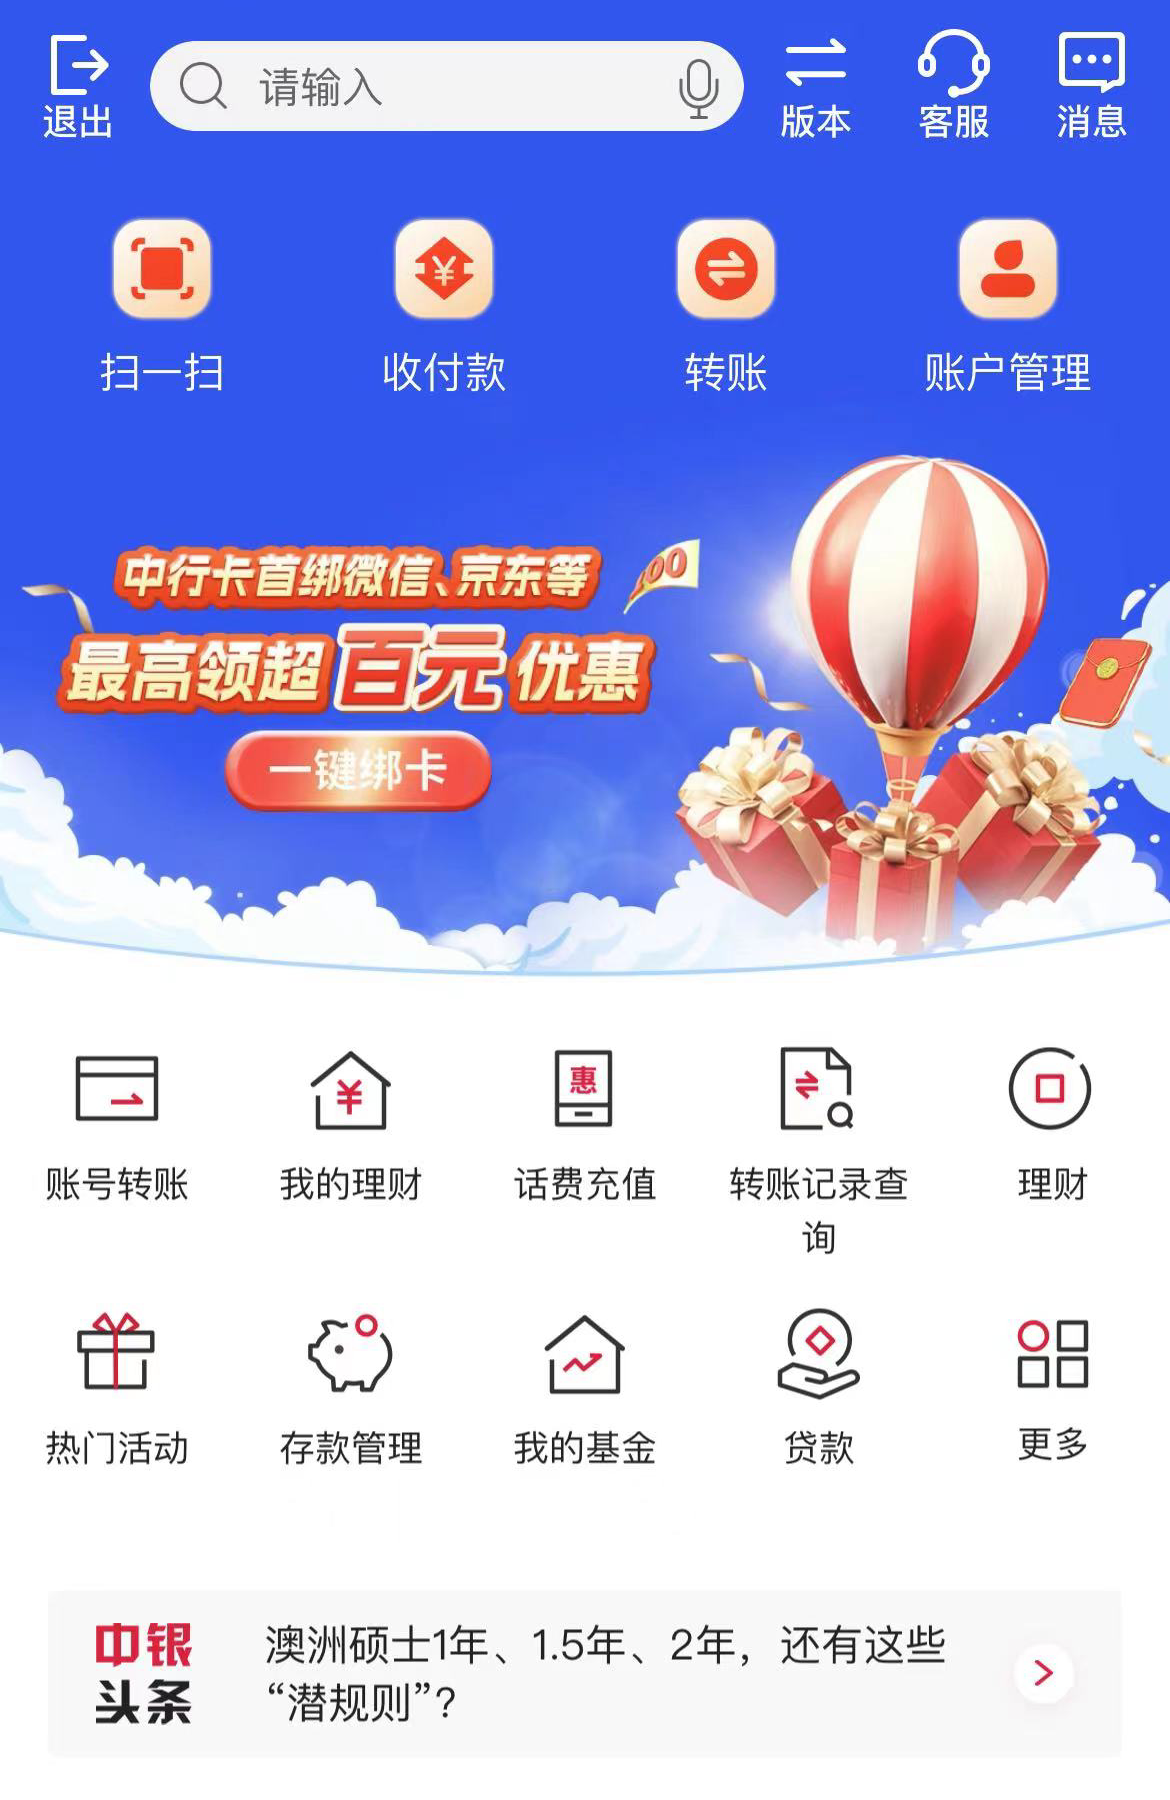
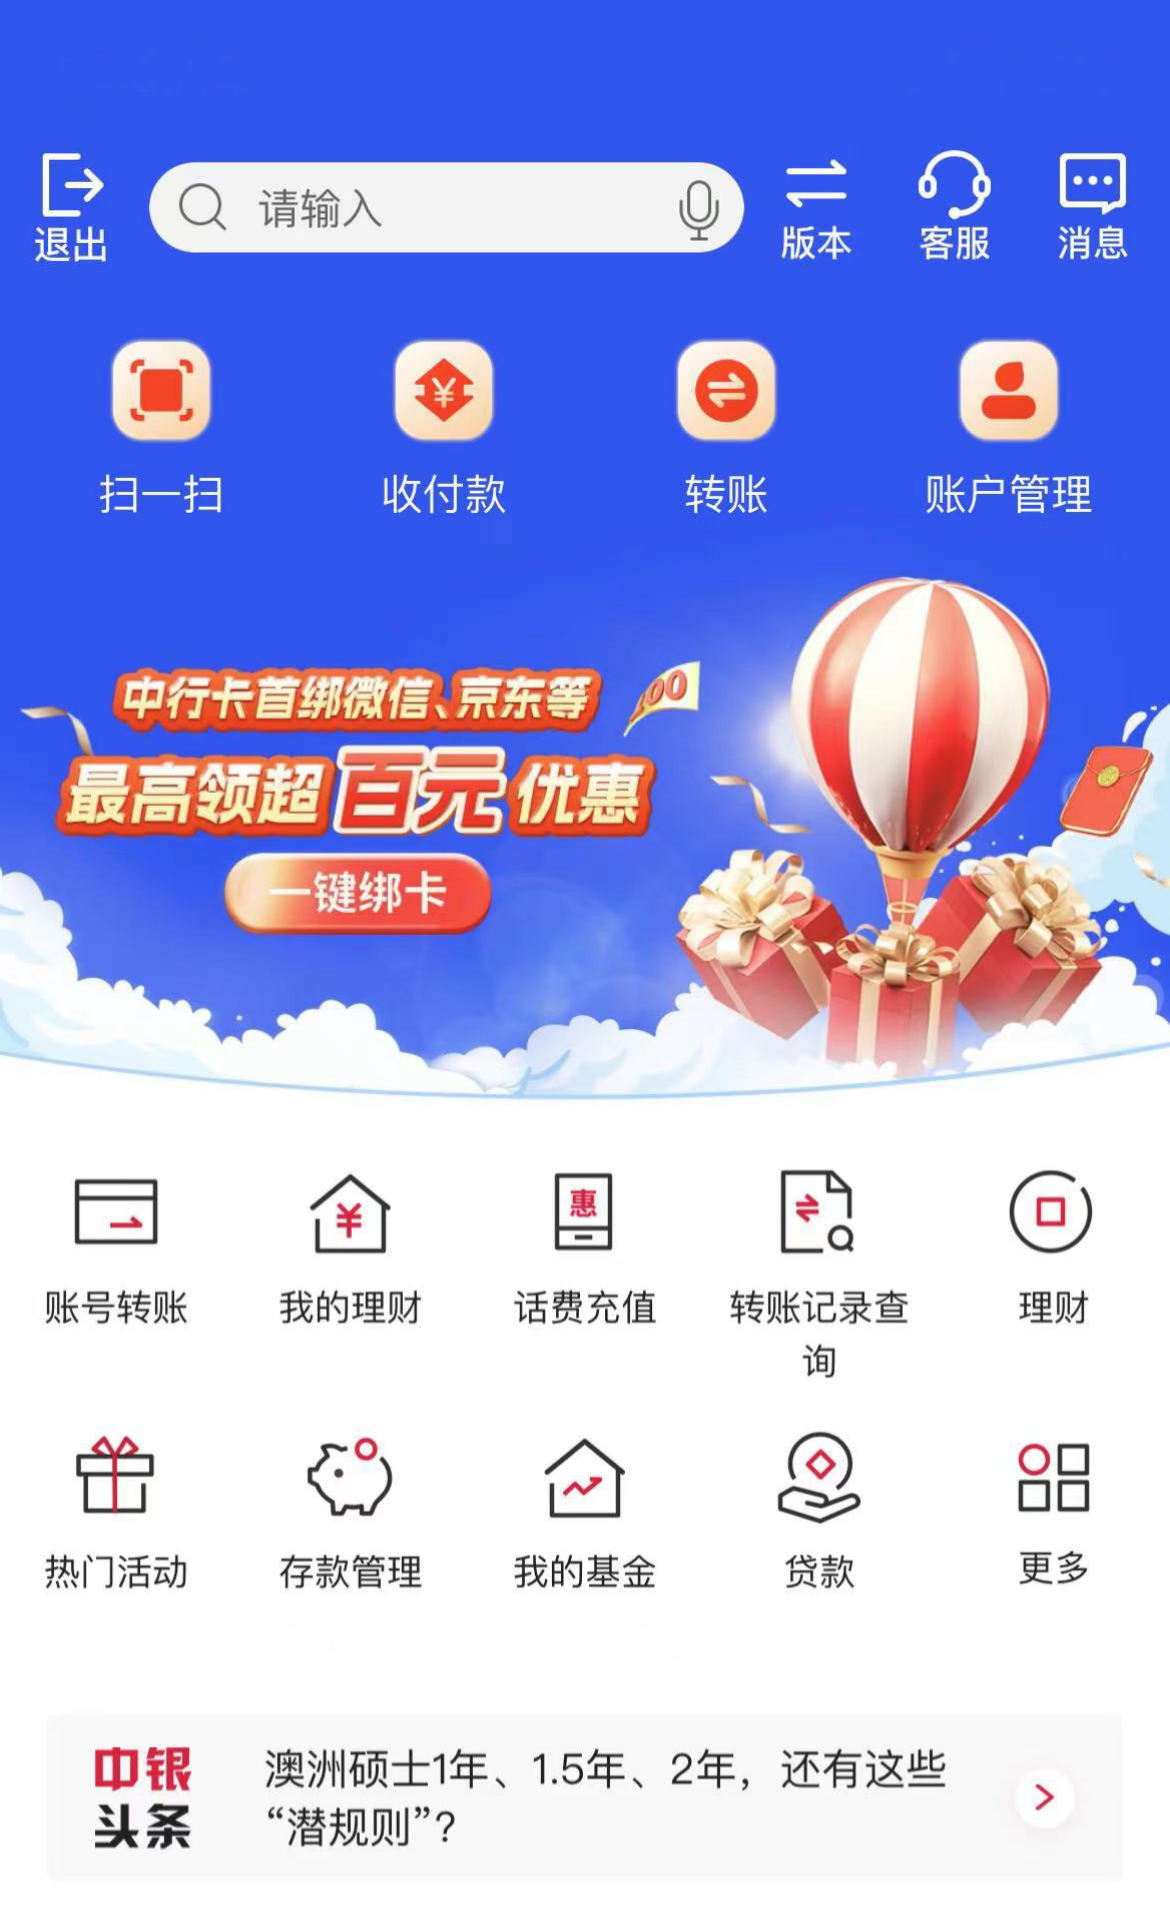
样式

diff --git a/vue-project/src/main/pages/MainPage.vue b/vue-project/src/main/pages/MainPage.vue
@@ -1,23 +1,14 @@
 <template>
   <div class="main-container">
-    <div style="background: #cd3a48">
-      <div class="header">
-        <img src="../images_2/p1-header.png" />
-      </div>
-      <div class="header-2" @click="goto('detail')">
-        <div class="avatar-content">
-          <img class="dynamic-avatar" :src="info.avatar" />
-          <span class="avatar-setting">设置</span>
-        </div>
-        <div class="title">{{ info.title }}</div>
-        <div class="desc">{{ info.desc }}</div>
-      </div>
+    <div class="header">
+      <img src="../images_2/p1-header.png" />
     </div>
-    <div class="header-3">
-      <div class="header-3-inner">
-        <img src="../images_2/p1-header-3-inner.png" />
-      </div>
+    <div class="avatar-content" @click="goto('detail')">
+      <img class="dynamic-avatar" :src="info.avatar" />
+      <span class="avatar-setting">设置</span>
     </div>
+    <div class="title">{{ info.title }}</div>
+    <div class="desc">{{ info.desc }}</div>
 
     <div class="item-1">
       <img
@@ -159,12 +150,10 @@ onMounted(setStatusBar);
 
 <style scoped>
 .header {
-  margin-top: -2px;
   display: flex;
 }
 
 .header img {
-  height: 54px;
   width: 100%;
 }
 
@@ -435,7 +424,7 @@ img.hide {
 
 .avatar-content {
   position: absolute;
-  top: 73px;
+  top: 120px;
   left: 19px;
   width: 64px;
   height: 64px;
@@ -468,7 +457,7 @@ img.hide {
   line-height: 18px;
   position: absolute;
   left: 98px;
-  top: 85px;
+  top: 130px;
   background: repeating-linear-gradient(to left, #cf3847, #cc3242);
   color: white;
   min-width: 100px;
@@ -482,7 +471,8 @@ img.hide {
   position: absolute;
   line-height: 11px;
   left: 97px;
-  top: 111px;
-  color: #f8cac7;
+  top: 160px;
+  color: #fff;
+  opacity: 0.6;
 }
 </style>

diff --git a/vue-project/src/bridge/index.ts b/vue-project/src/bridge/index.ts
@@ -99,7 +99,11 @@ export function statusBarColor(rgb?: string, overlays?: boolean): Promise<void> 
             return;
         }
         submit(() => {
-            overlays && (window as any).StatusBar.overlaysWebView(true);
+            if (overlays) {
+                (window as any).StatusBar.overlaysWebView(true);
+            } else {
+                (window as any).StatusBar.overlaysWebView(false);
+            }
             rgb && (window as any).StatusBar.backgroundColorByHexString(rgb);
         });
     });

diff --git a/vue-project/src/main/pages/HomePage.vue b/vue-project/src/main/pages/HomePage.vue
@@ -76,9 +76,9 @@ onMounted(setStatusBar);
 .header-btn {
   position: absolute;
   left: 0;
-  top: 0;
+  top: 30px;
   width: 54px;
-  height: 54px;
+  height: 84px;
 }
 
 .bottom {
